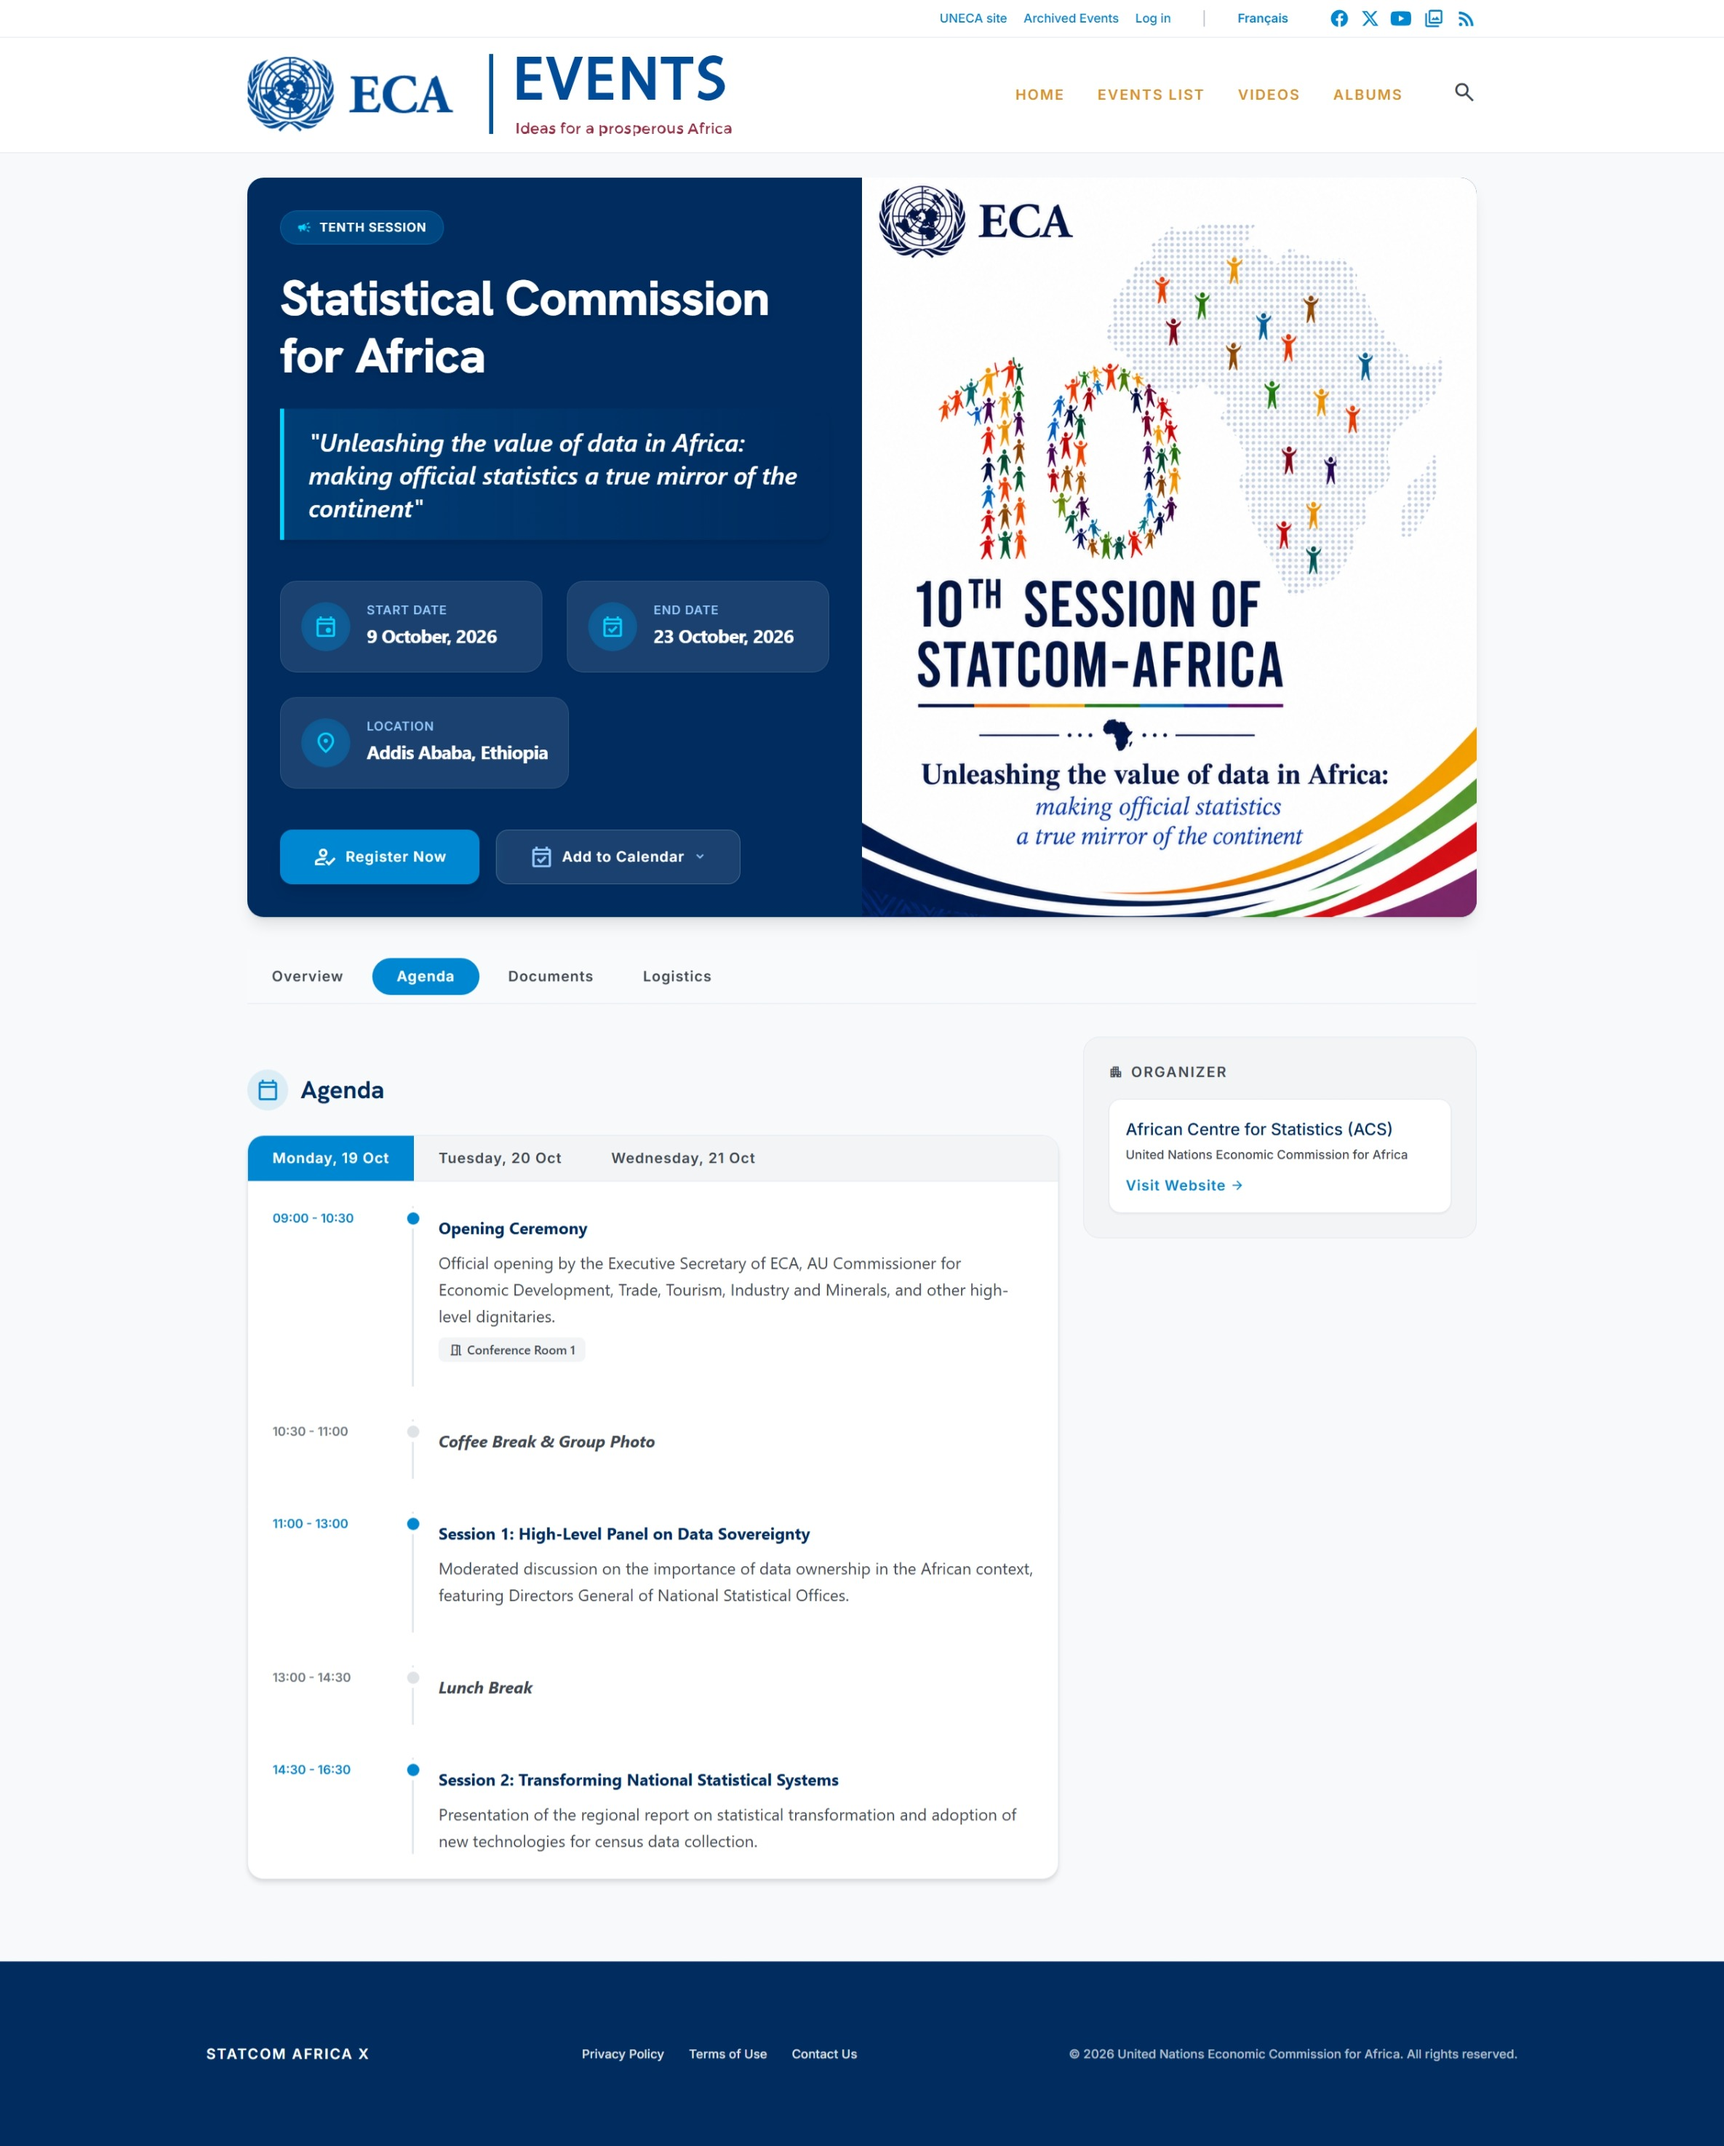
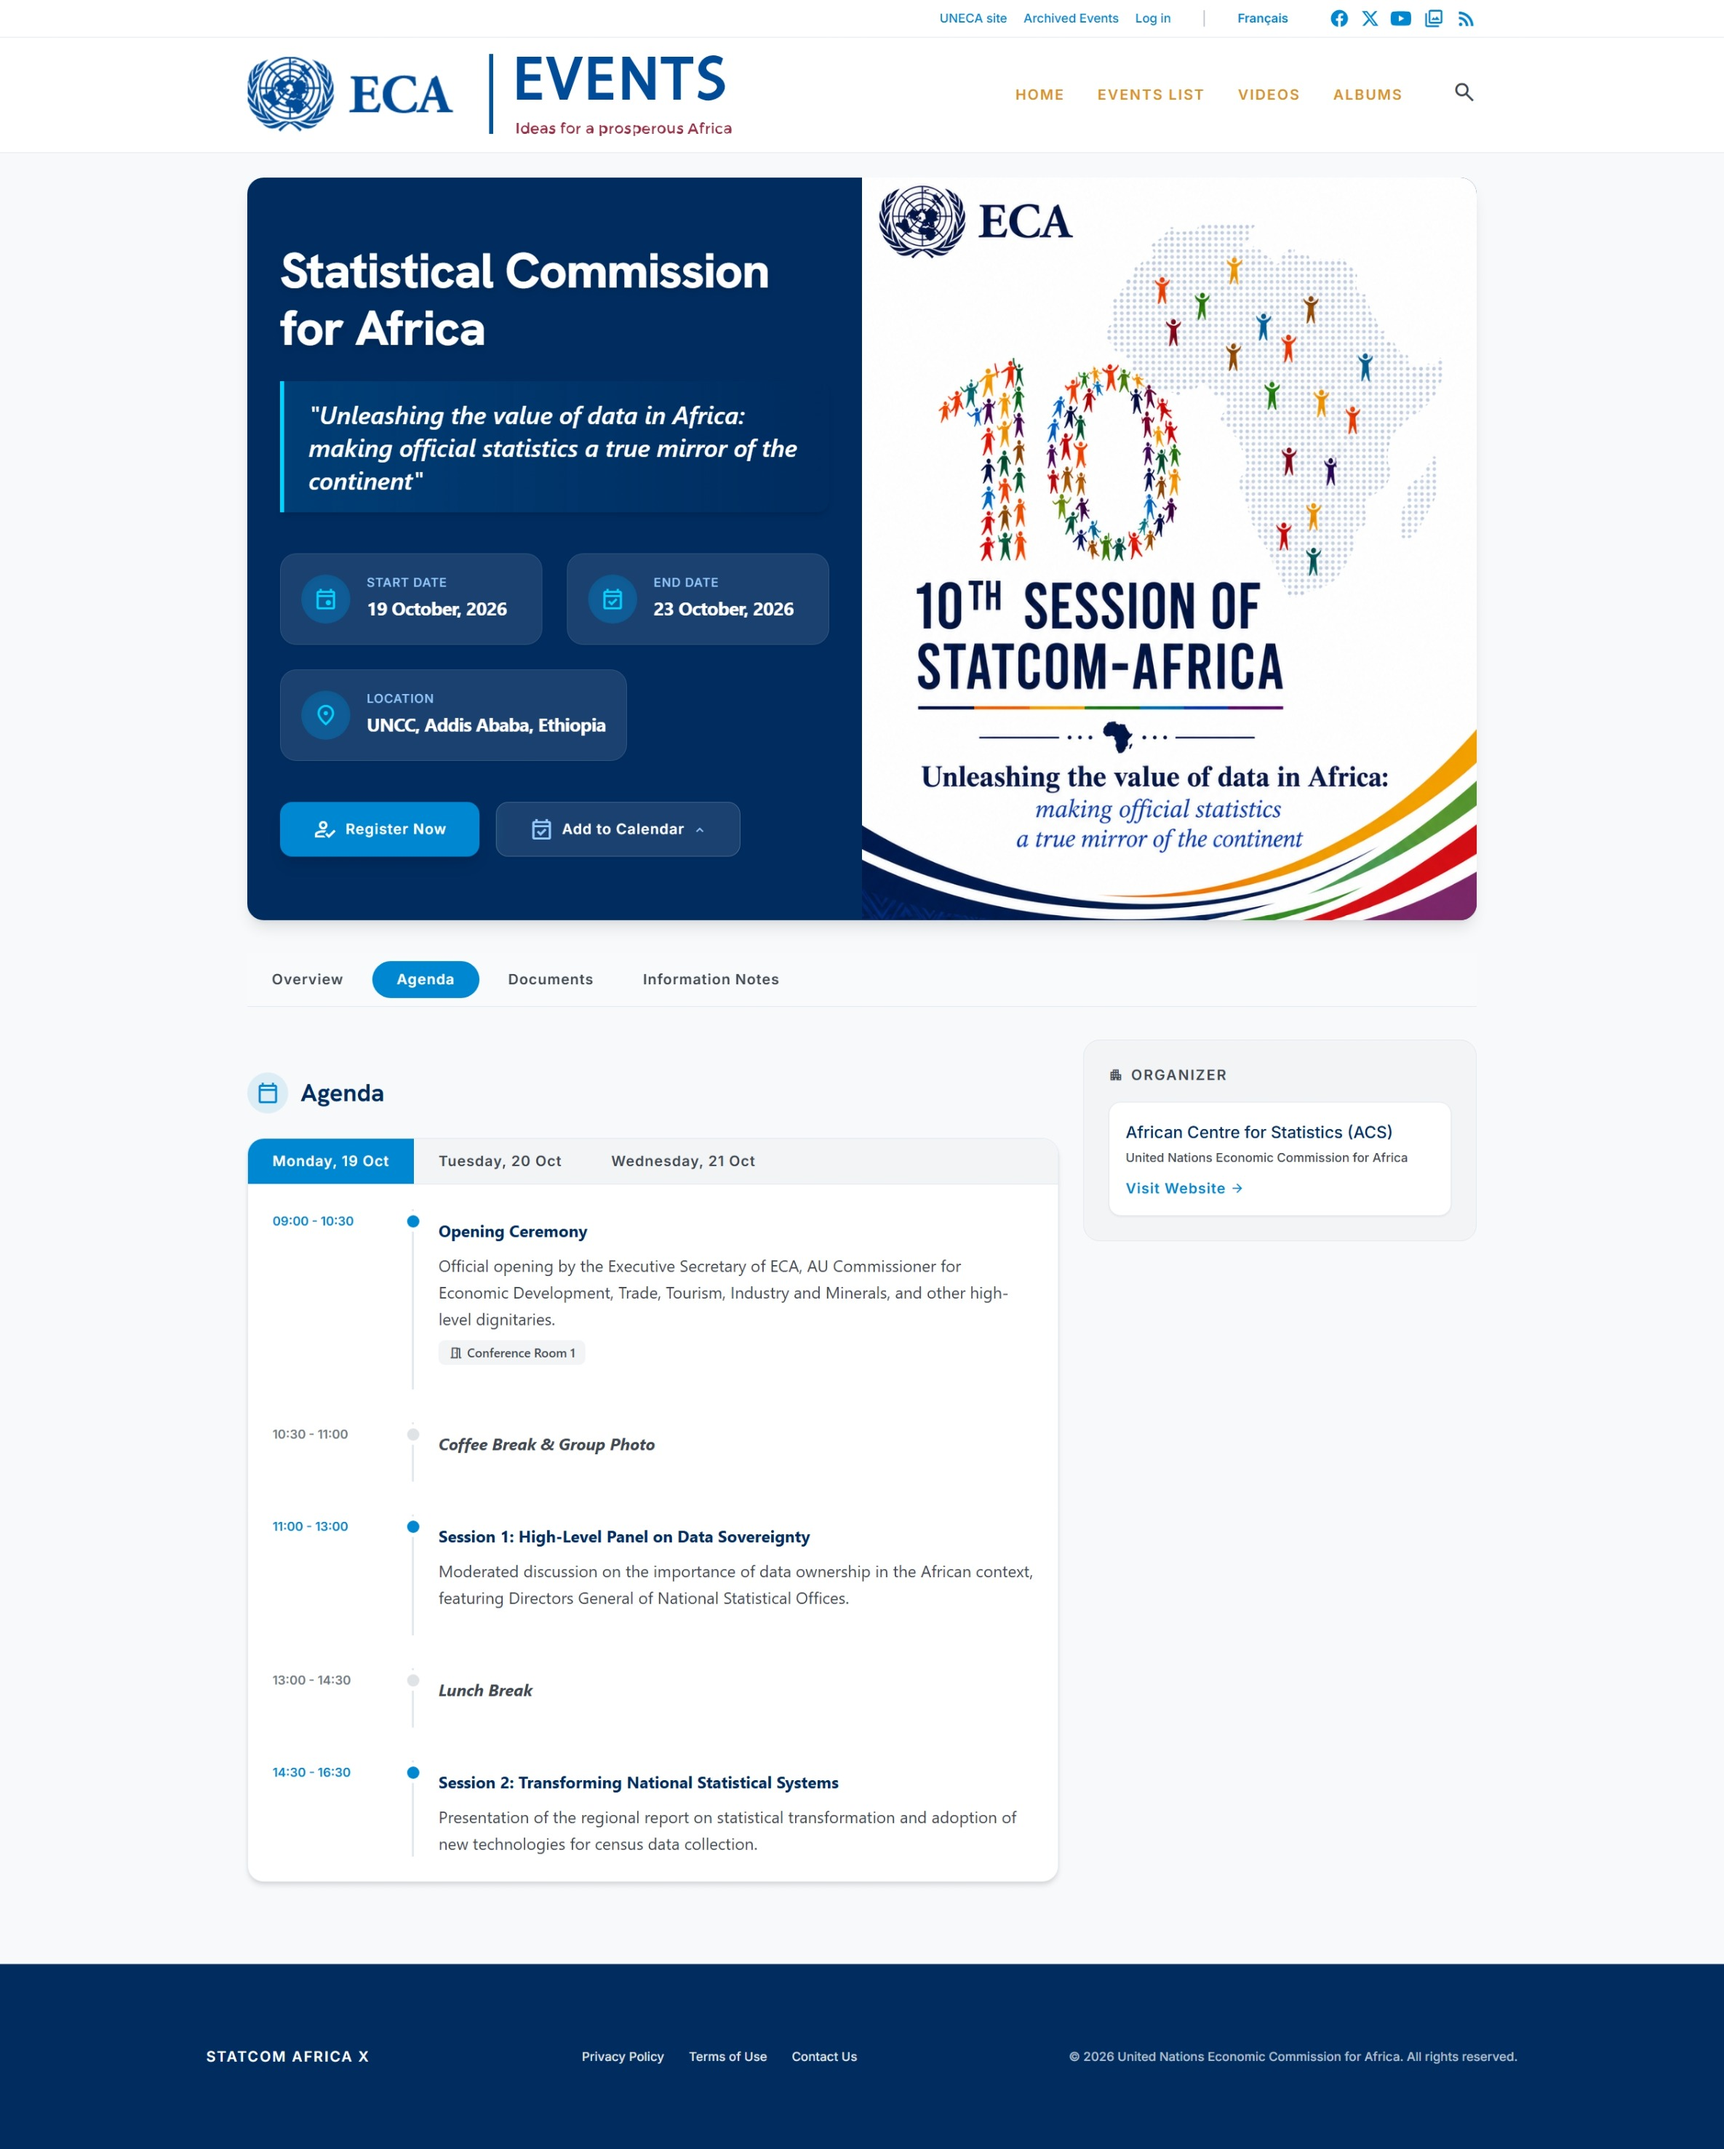
feat: improve mobile layout and update README
- Added a functional mobile menu toggle for navigation

- Hid the top utility bar on smaller screens to prevent horizontal overflow

- Fixed the hero image scaling to use object-contain for full visibility

- Fixed calendar dropdown visibility on initial load

- Populated README.md with event background, objectives, and tech stack

diff --git a/index.html b/index.html
@@ -194,7 +194,7 @@
     <!-- TopAppBar -->
   <header class="bg-surface-container-lowest top-0 z-50 w-full border-b border-surface-border">
     <!-- Top Utility Bar -->
-    <div class="bg-white border-b border-surface-border">
+    <div class="bg-white border-b border-surface-border hidden md:block">
         <div class="max-w-container-max mx-auto px-margin-mobile md:px-margin-desktop py-2 flex justify-end items-center gap-6">
             <div class="flex items-center gap-4 text-metadata font-metadata text-un-blue">
                 <a href="#" class="hover:text-primary">UNECA site</a>
@@ -228,9 +228,18 @@
                 </button>
             </nav>
             <!-- Mobile Menu Toggle -->
-            <button class="md:hidden text-on-surface-variant">
-                <span class="material-symbols-outlined">menu</span>
+            <button class="md:hidden text-on-surface-variant hover:text-un-blue transition-colors" onclick="toggleMobileMenu()">
+                <span class="material-symbols-outlined" id="mobile-menu-icon">menu</span>
             </button>
+        </div>
+        <!-- Mobile Menu Dropdown -->
+        <div id="mobile-menu" class="hidden md:hidden bg-white border-t border-surface-border px-margin-mobile py-4">
+            <nav class="flex flex-col gap-4">
+                <a href="https://www.uneca.org/eca-events/" class="text-label-md font-label-md uppercase tracking-widest text-[#db9224] hover:text-primary transition-colors">Home</a>
+                <a href="https://www.uneca.org/eca-events/all/current-and-upcoming" class="text-label-md font-label-md uppercase tracking-widest text-[#db9224] hover:text-primary transition-colors">Events List</a>
+                <a href="https://www.uneca.org/eca-events/videos" class="text-label-md font-label-md uppercase tracking-widest text-[#db9224] hover:text-primary transition-colors">Videos</a>
+                <a href="https://www.uneca.org/eca-events/albums" class="text-label-md font-label-md uppercase tracking-widest text-[#db9224] hover:text-primary transition-colors">Albums</a>
+            </nav>
         </div>
     </div>
   </header>
@@ -356,7 +365,7 @@
                 >
               </button>
               <div
-                class="absolute top-full left-0 right-0 sm:right-auto mt-2 w-full sm:w-56 bg-surface-container-lowest rounded-xl shadow-xl border border-surface-border py-2 z-50 origin-top transition-all duration-200 opacity-100 scale-100"
+                class="absolute top-full left-0 right-0 sm:right-auto mt-2 w-full sm:w-56 bg-surface-container-lowest rounded-xl shadow-xl border border-surface-border py-2 z-50 origin-top transition-all duration-200 opacity-0 scale-95 hidden"
                 id="calendar-dropdown-menu"
               >
                 <a
@@ -397,11 +406,11 @@
         </div>
         
         <div
-          class="relative w-full lg:w-1/2 min-h-[300px] lg:min-h-0 overflow-hidden md:rounded-b-2xl lg:rounded-r-2xl lg:rounded-bl-none"
+          class="flex items-center justify-center w-full lg:w-1/2 overflow-hidden md:rounded-b-2xl lg:rounded-r-2xl lg:rounded-bl-none"
         >
           <img
             alt="10th Session of StatCom-Africa"
-            class="absolute inset-0 h-full w-full object-fill object-center"
+            class="w-full h-auto object-contain"
             src="statcom-hero-image.png"
           />
         </div>
@@ -1124,6 +1133,19 @@
       </div>
     </footer>
     <script>
+      function toggleMobileMenu() {
+        const menu = document.getElementById("mobile-menu");
+        const icon = document.getElementById("mobile-menu-icon");
+        
+        if (menu.classList.contains("hidden")) {
+          menu.classList.remove("hidden");
+          icon.textContent = "close";
+        } else {
+          menu.classList.add("hidden");
+          icon.textContent = "menu";
+        }
+      }
+
       function switchTab(tabId) {
         // Content switching
         const contents = document.querySelectorAll(".tab-content");

diff --git a/README.md b/README.md
@@ -1,1 +1,40 @@
-# statcom-uneca-event
+# 10th Session of StatCom-Africa
+
+This repository contains the landing page and event information for the **10th Session of the Statistical Commission for Africa (StatCom-Africa)**, organized by the African Centre for Statistics (ACS) of the United Nations Economic Commission for Africa (UNECA).
+
+## Event Details
+
+- **Theme:** "Unleashing the value of data in Africa: making official statistics a true mirror of the continent"
+- **Dates:** 19 October - 23 October, 2026
+- **Location:** United Nations Conference Centre (UNCC), Addis Ababa, Ethiopia
+- **Organizer:** African Centre for Statistics (ACS), UNECA
+
+## About the Event
+
+The Statistical Commission for Africa is the regional equivalent of the Statistical Commission of the Economic and Social Council, which is the highest body in the global statistical system. It serves as the highest decision-making body in Africa responsible for:
+- Setting statistical standards
+- Developing concepts and methods
+- Implementing statistical systems at the national, subregional, and continental levels
+
+### Key Objectives
+- Discuss progress and statistical development in African statistical systems.
+- Take stock of ongoing global initiatives and mainstream new methodologies.
+- Modernize and transform national statistical systems in Africa.
+
+### Expected Outcomes
+- Endorsement of the revised African Charter on Statistics.
+- Commitments to increase domestic financing for statistical systems.
+- Adoption of guidelines for the 2030 round of Population and Housing Censuses.
+
+## Registration
+Registration is handled via the [Indico UN portal](https://indico.un.org/event/1025300).
+
+## Technical Details
+
+This project is a static responsive landing page built with HTML and styled using [Tailwind CSS](https://tailwindcss.com/) via CDN. It includes features like:
+- Mobile-responsive navigation and layout
+- "Add to Calendar" dropdown for generating calendar events
+- Tabbed content for viewing Overview, Agenda, Documents, and Information Notes
+
+### Running locally
+Simply open `index.html` in your favorite web browser. No build steps are required.
